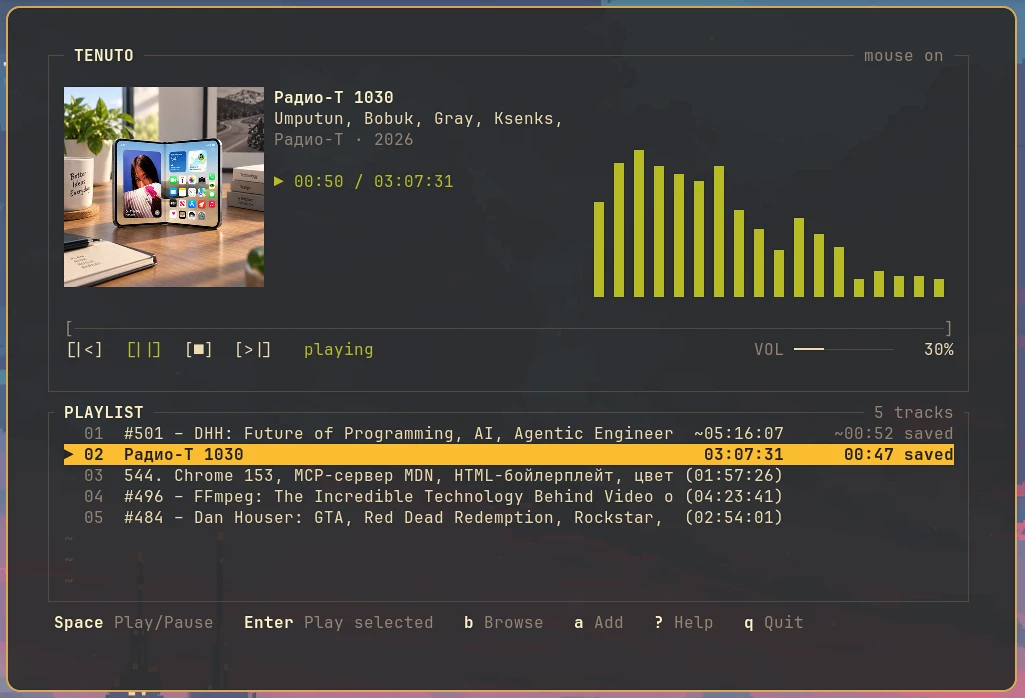
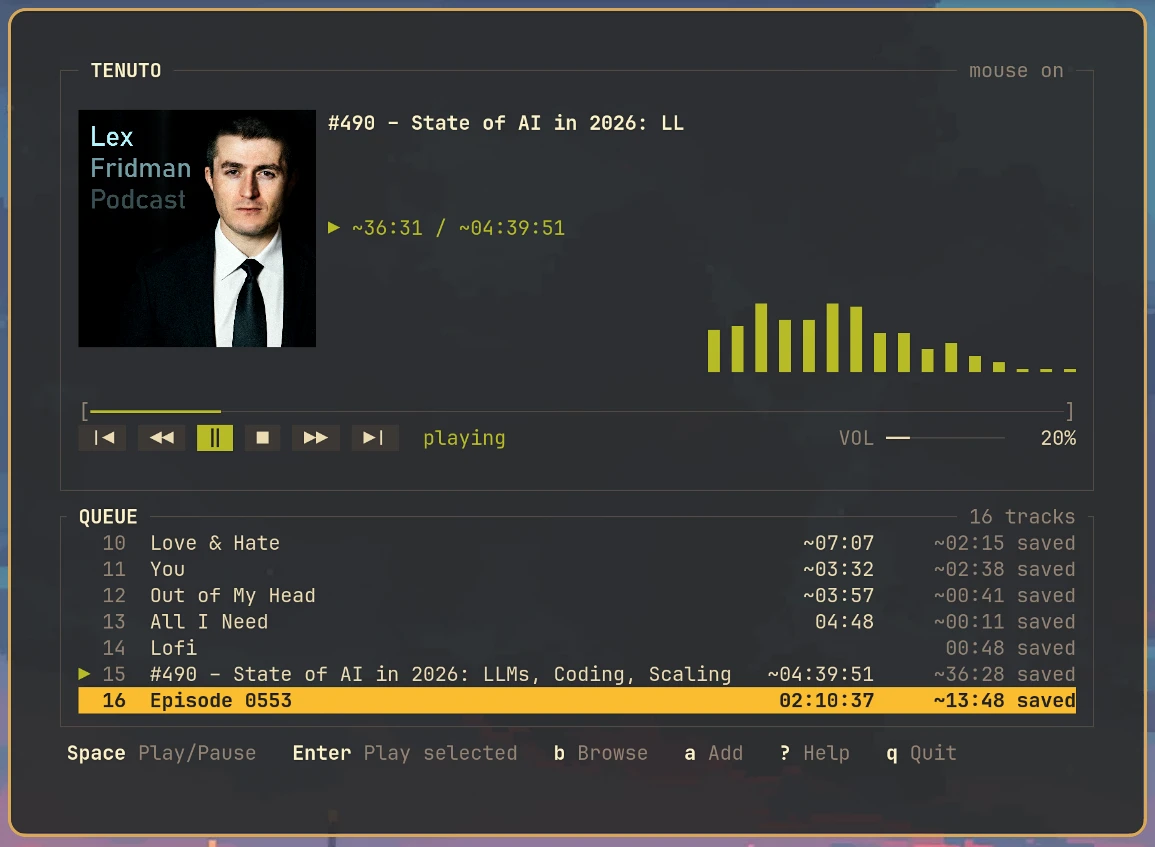
docs: changelog for live radio and the transport buttons; new screenshot

diff --git a/CHANGELOG.md b/CHANGELOG.md
@@ -9,12 +9,38 @@ and this project adheres to [Semantic Versioning](https://semver.org/spec/v2.0.0
 
 ### Added
 
-- Live HTTP radio with bounded reconnect.
+- Live HTTP radio. An Icecast or Shoutcast v2 stream plays without a
+  position bar, from `tenuto play <url>` or the queue. It cannot seek or
+  restart and is never resumed: pausing closes the connection and playing
+  rejoins the live edge.
+- A live stream that drops reconnects with backoff for up to five minutes,
+  then fails; Space tries once more. Stop, pause or another track cancels
+  the reconnect immediately.
+- A Radio tab in the browser over the saved stations: `a` adds a station by
+  its stream URL, `r` re-probes it, `d` removes it after a `y`
+  confirmation, Enter enqueues it. A row shows the station's slug, genre
+  and bitrate from the ICY identity cached when it was added, so the tab
+  lists without a network request.
+- Stations are saved in `$XDG_DATA_HOME/tenuto/stations.json`.
+- A station's logo shows in the cover pane while that station plays.
+- SVG cover art, rasterized within a fixed size with every external
+  reference refused.
+- Seek buttons in the transport row: `◀◀` and `▶▶` step ten seconds, as
+  ← and → do.
 
 ### Changed
 
 - A seek on a source that cannot seek no longer drops its connection.
 - Loading another track interrupts a stalled one immediately.
+- A live stream is no longer refused. A stream that interleaves ICY
+  metadata and an HLS playlist still are, and the message now names HLS.
+- The transport controls are filled buttons with solid glyphs, and the row
+  holds still when play turns to pause.
+
+### Fixed
+
+- An MP3 with both an ID3v2 tag and an ID3v1 trailer showed the trailer's
+  30-byte title and no cover. The ID3v2 title and cover now win.
 
 ## [0.1.2] - 2026-09-17
 
